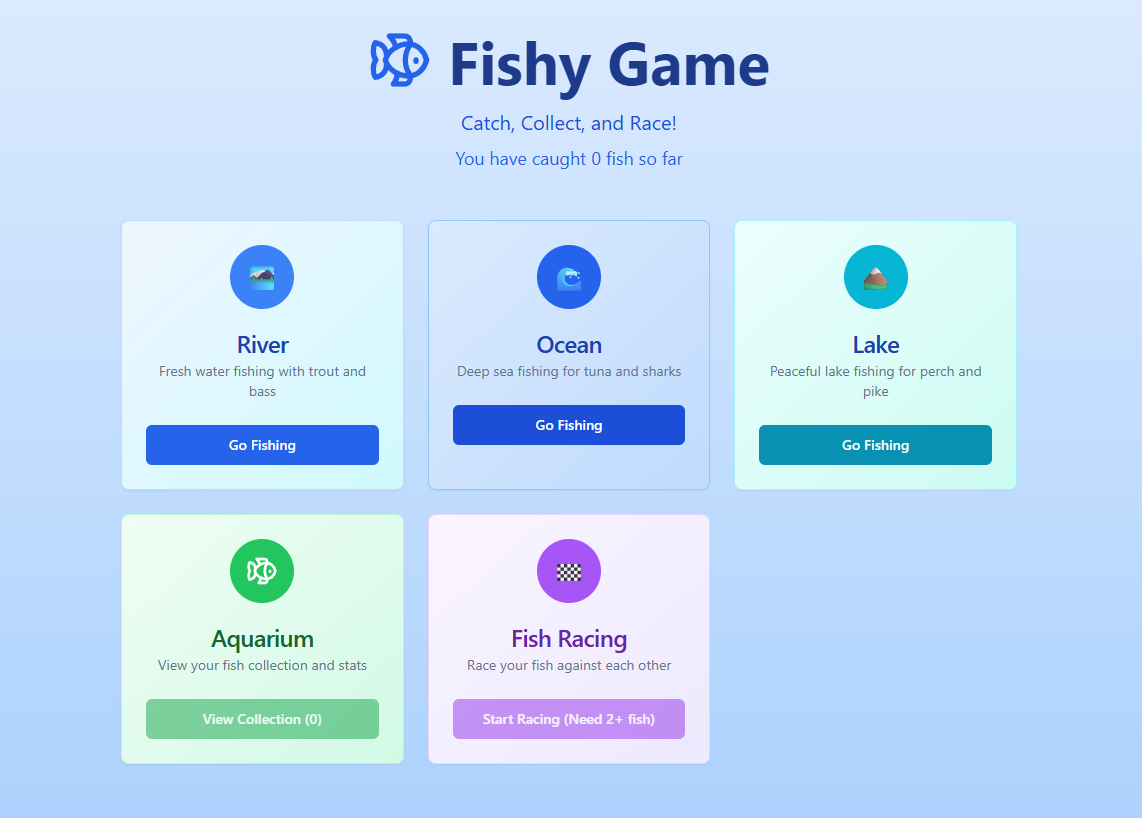
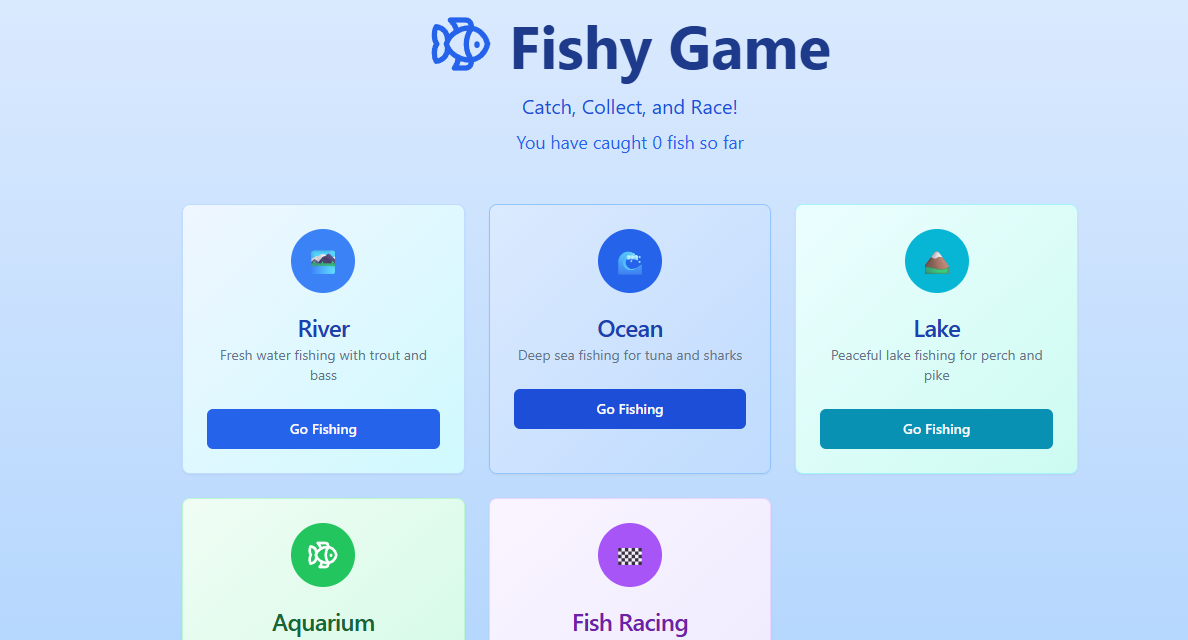
Edited fishy

diff --git a/src/components/Project.tsx b/src/components/Project.tsx
@@ -19,14 +19,14 @@ function Project() {
         <h1>Personal Projects</h1>
         <div className="projects-grid">
             <div className="project">
-                <a href="https://css-toolbox.lovable.app/" target="_blank" rel="noreferrer"><img src={mock11} className="zoom" alt="thumbnail" width="100%"/></a>
-                <a href="https://css-toolbox.lovable.app/" target="_blank" rel="noreferrer"><h2>CSS Toolbox</h2></a>
-                <p>A simple, AI-powered tool to help web designers find their favorite CSS style without coding.</p>
+                <a href="https://github.com/CSC453-Group-Project/LinkedIn" target="_blank" rel="noreferrer"><img src={mock09} className="zoom" alt="thumbnail" width="100%"/></a>
+                <a href="https://github.com/CSC453-Group-Project/LinkedIn" target="_blank" rel="noreferrer"><h2>LinkedIn Data Visualization</h2></a>
+                <p>This project aims to transform LinkedIn profile data from survey responses into a and visual format using Pentaho for ETL processes and Power BI for data visualization.</p>
             </div>
             <div className="project">
-                <a href="https://fishy-game.lovable.app/" target="_blank" rel="noreferrer"><img src={mock12} className="zoom" alt="thumbnail" width="100%"/></a>
-                <a href="https://fishy-game.lovable.app/" target="_blank" rel="noreferrer"><h2>Fishy Game</h2></a>
-                <p>A simple Fishy Game.</p>
+                <a href="https://docs.google.com/document/d/1hImH6_xDDZlHulTsY1K4KRvIqBw4GmrzDbFgShTiyb8/edit?usp=sharing" target="_blank" rel="noreferrer"><img src={mock07} className="zoom" alt="thumbnail" width="100%"/></a>
+                <a href="https://docs.google.com/document/d/1hImH6_xDDZlHulTsY1K4KRvIqBw4GmrzDbFgShTiyb8/edit?usp=sharing" target="_blank" rel="noreferrer"><h2>Space Invaders</h2></a>
+                <p>A replica of the original arcade Space Invaders, built with C# on Visual Studio. This project was great practice both for Game Development and implementing OOP design patterns.</p>
             </div>
             <div className="project">
                 <a href="https://murataltindag.github.io/debt-snowball-calc/" target="_blank" rel="noreferrer"><img src={mock10} className="zoom" alt="thumbnail" width="100%"/></a>
@@ -34,22 +34,25 @@ function Project() {
                 <p>A debt snowball calculator built with Flutter. This project helps users to pay off their debts faster by following the debt snowball method.</p>
             </div>
             <div className="project">
-                <a href="https://github.com/CSC453-Group-Project/LinkedIn" target="_blank" rel="noreferrer"><img src={mock09} className="zoom" alt="thumbnail" width="100%"/></a>
-                <a href="https://github.com/CSC453-Group-Project/LinkedIn" target="_blank" rel="noreferrer"><h2>LinkedIn Data Visualization</h2></a>
-                <p>This project aims to transform LinkedIn profile data from survey responses into a and visual format using Pentaho for ETL processes and Power BI for data visualization.</p>
+                <a href="https://css-toolbox.lovable.app/" target="_blank" rel="noreferrer"><img src={mock11} className="zoom" alt="thumbnail" width="100%"/></a>
+                <a href="https://css-toolbox.lovable.app/" target="_blank" rel="noreferrer"><h2>CSS Toolbox</h2></a>
+                <p>A simple, AI-powered tool to help web designers find their favorite CSS style without coding.</p>
             </div>
-            
             <div className="project">
                 <a href="https://github.com/murataltindag/RoomScape" target="_blank" rel="noreferrer"><img src={mock08} className="zoom" alt="thumbnail" width="100%"/></a>
                 <a href="https://github.com/murataltindag/RoomScape" target="_blank" rel="noreferrer"><h2>RoomScape Project</h2></a>
                 <p>3D local co-op game simulating an escape room with puzzles. Added an inventory system, controller support, and start/end menus.</p>
             </div>
             
+            
             <div className="project">
-                <a><img src={mock07} className="zoom" alt="thumbnail" width="100%"/></a>
-                <a><h2>Space Invaders</h2></a>
-                <p>A replica of the original arcade Space Invaders, built with C# on Visual Studio. This project was great practice both for Game Development and implementing OOP design patterns.</p>
+                <a href="https://fishy-game.lovable.app/" target="_blank" rel="noreferrer"><img src={mock12} className="zoom" alt="thumbnail" width="100%"/></a>
+                <a href="https://fishy-game.lovable.app/" target="_blank" rel="noreferrer"><h2>Fishy Game</h2></a>
+                <p>A web prototype for a game I am currently developing on Unity.</p>
             </div>
+            
+            
+            
             
         </div>
     </div>
